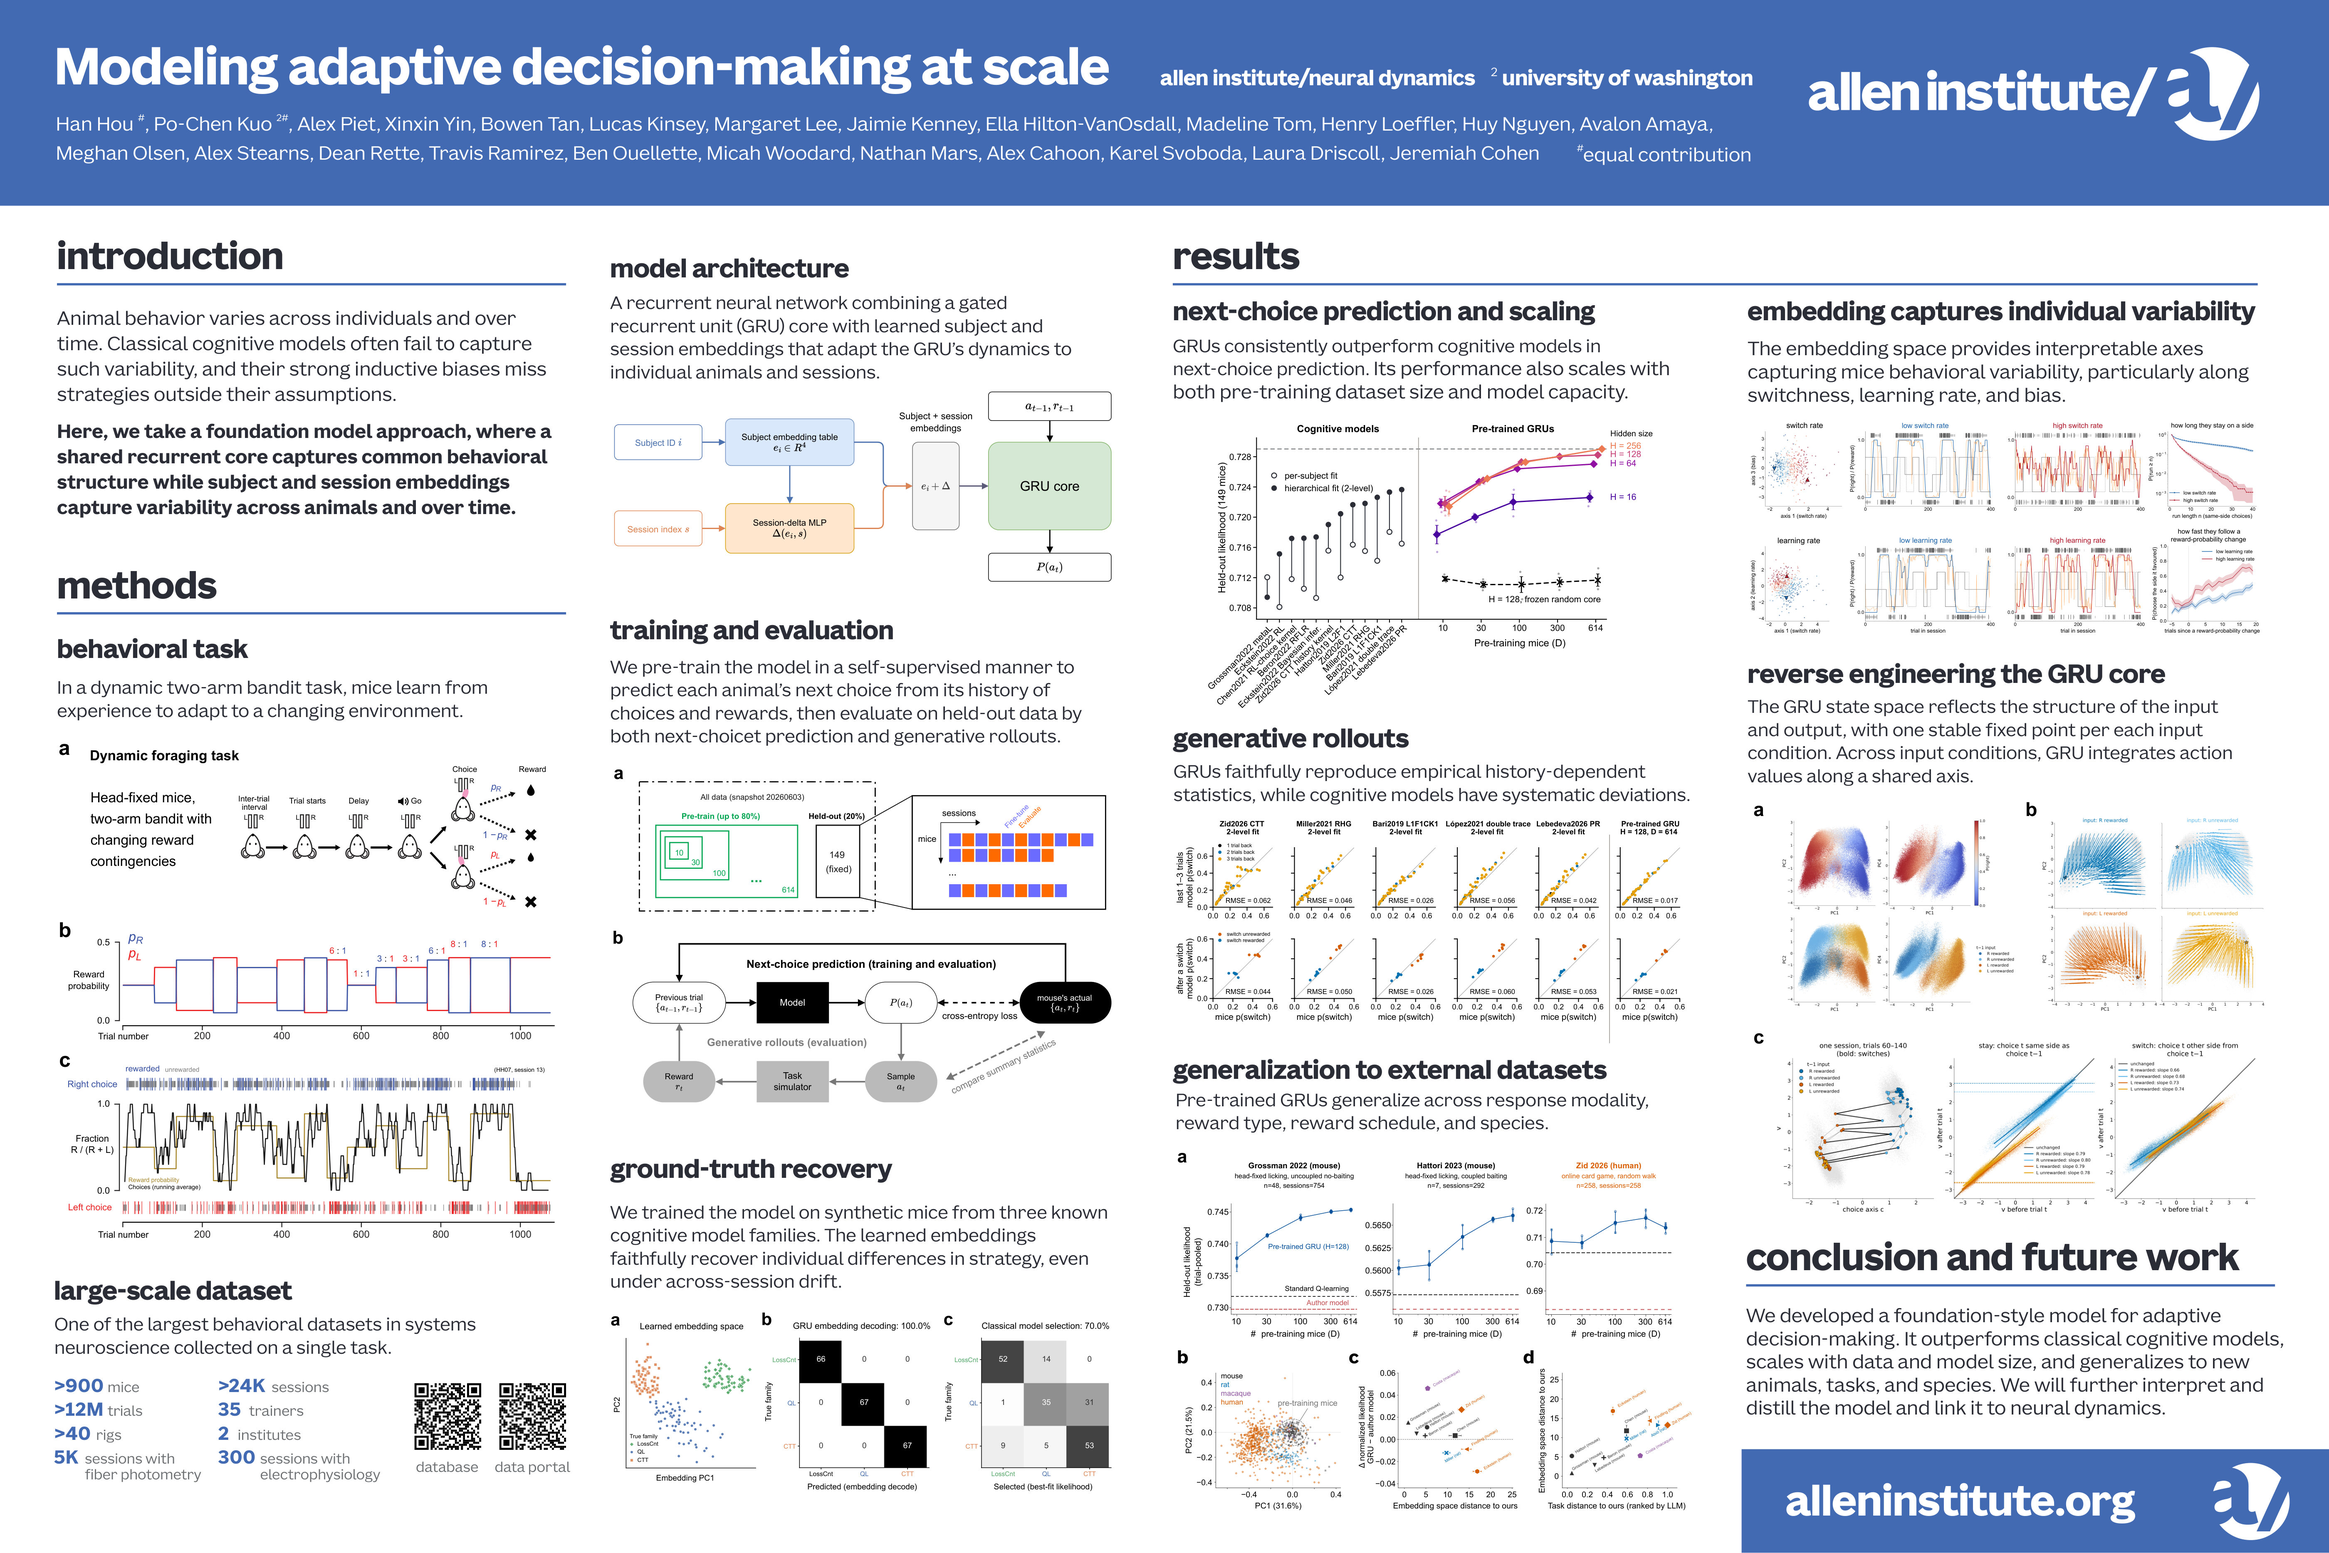
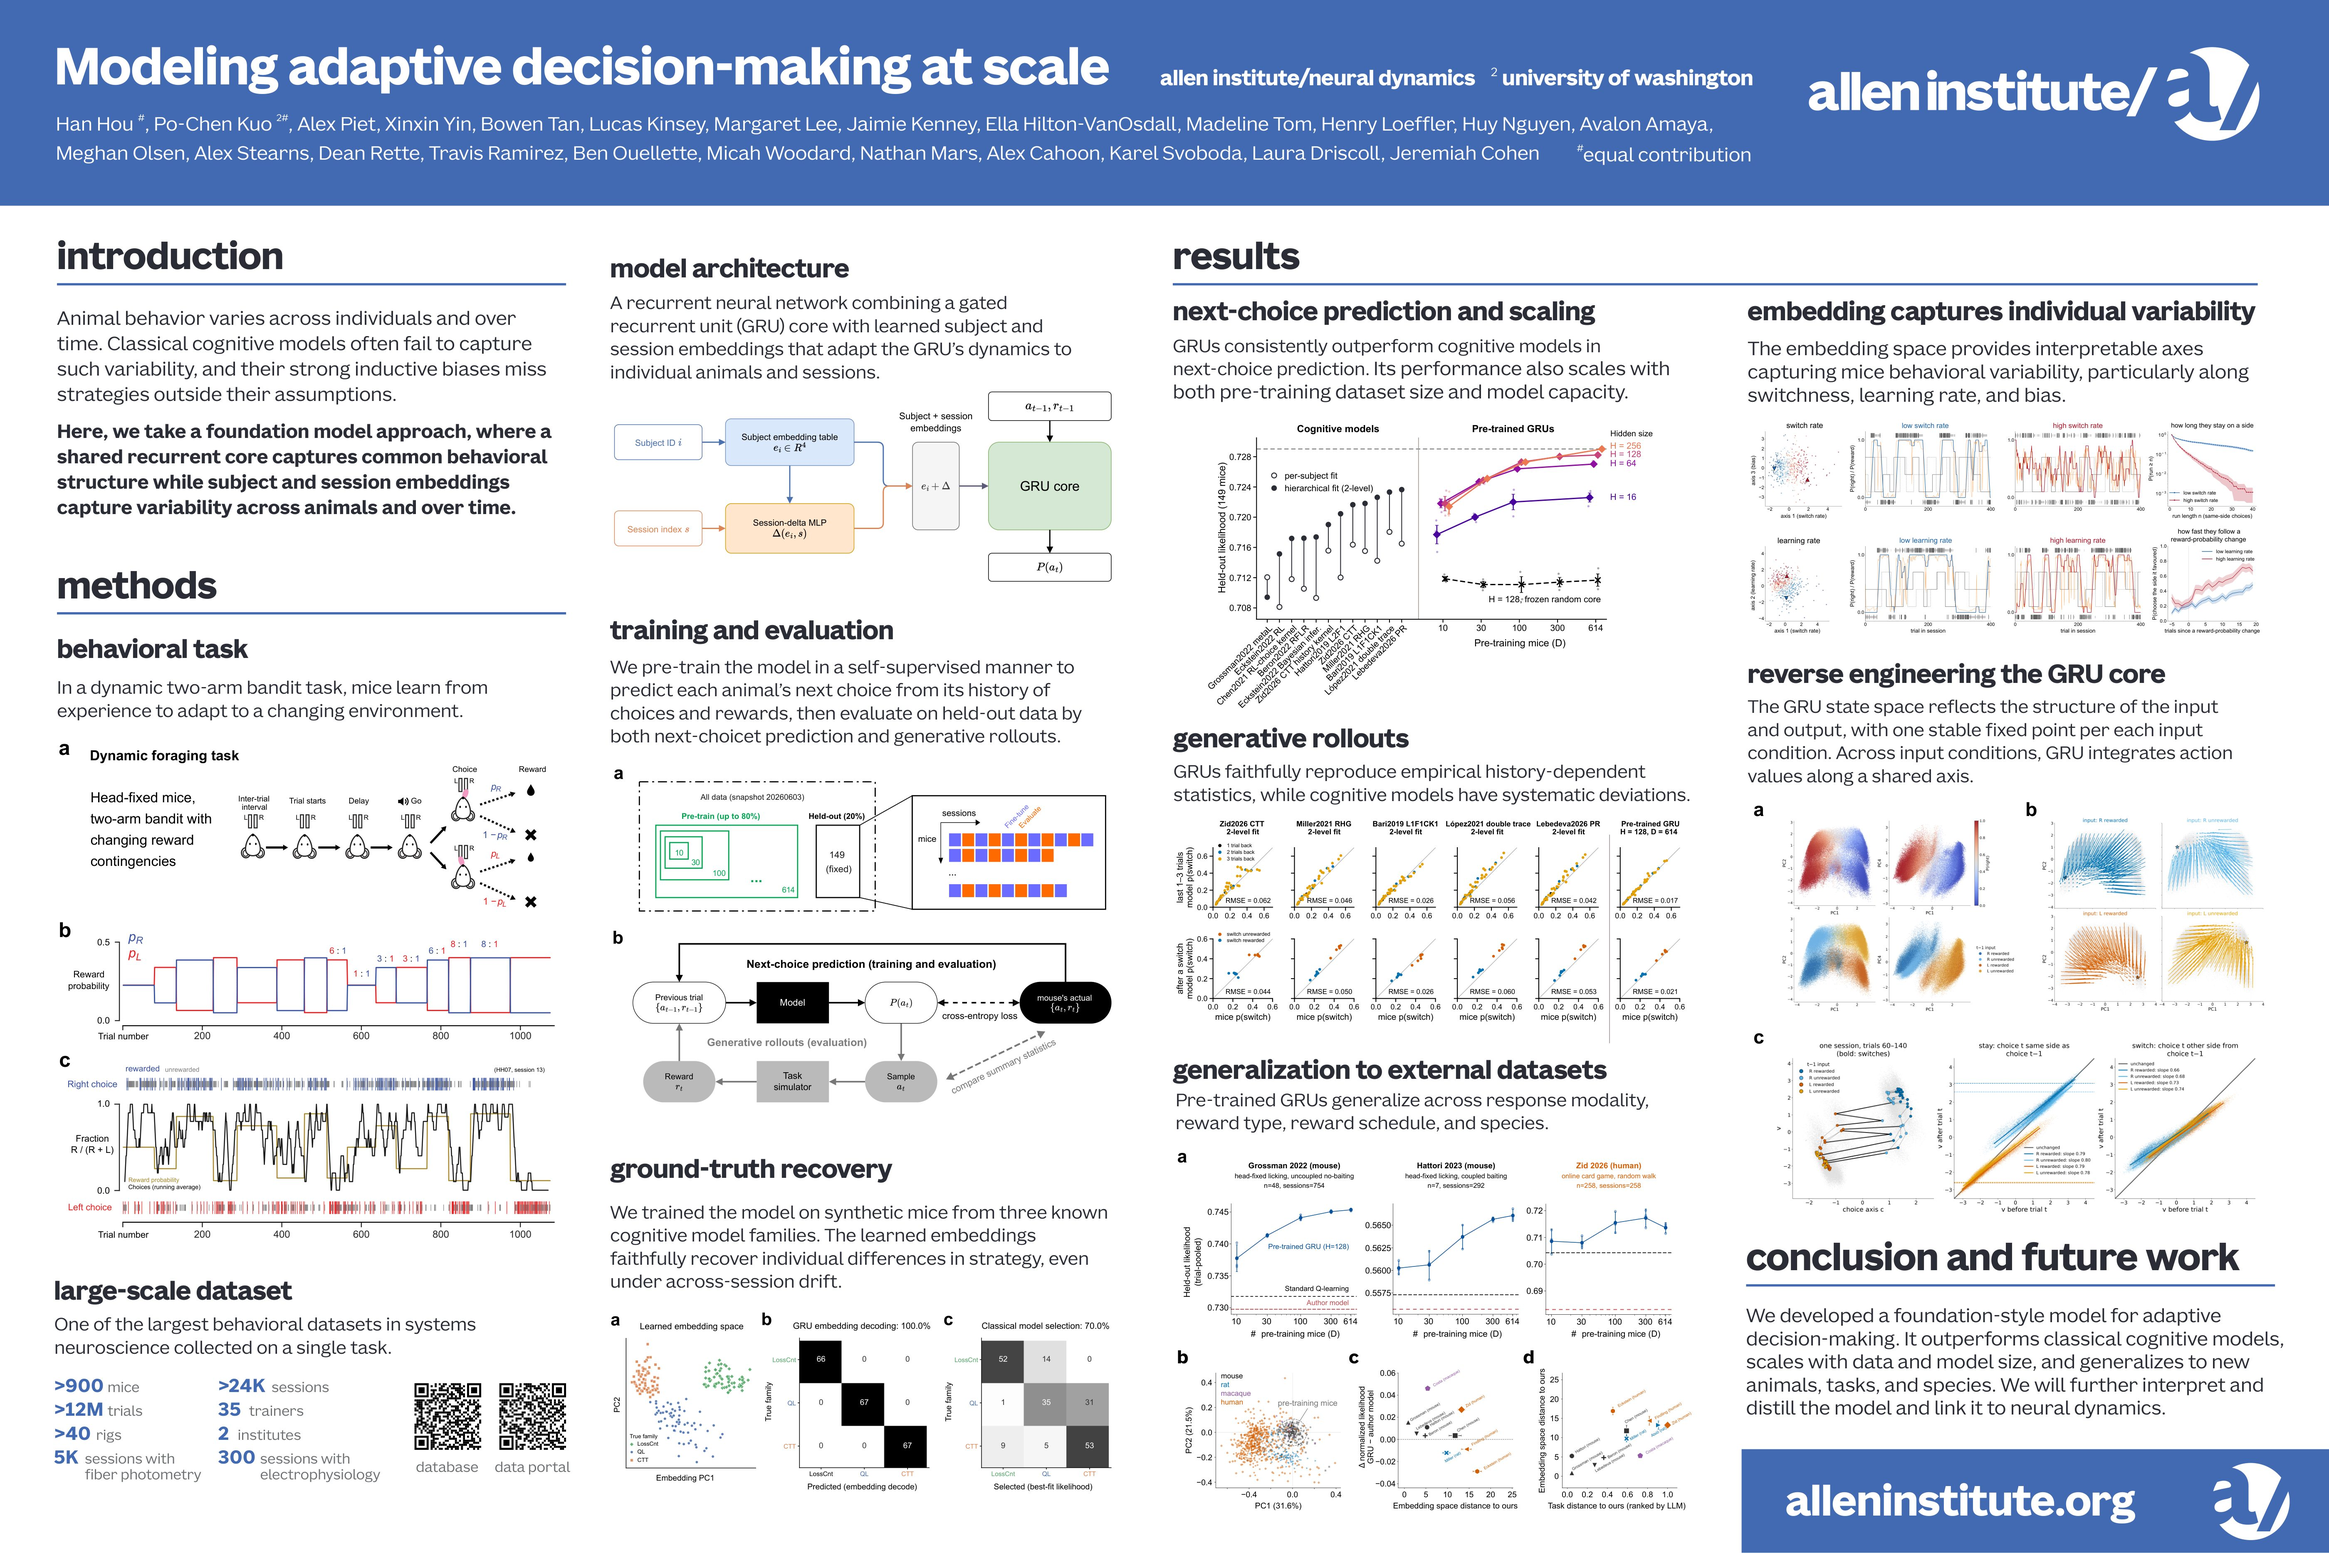
fix(poster): a baseline JPEG; Pages deploys timed out with the progressive one
Since #65, every Pages deploy of main timed out in deploy-pages while the version before it deployed in 9 s.
The only new file the site serves is the poster JPEG, which PyMuPDF wrote progressive. Same pixels, now
baseline (2.1 MB), rendered from the PDF by scripts/poster_image.py through Pillow.

Refs #66

diff --git a/scripts/poster_image.py b/scripts/poster_image.py
@@ -1,12 +1,12 @@
 """Render the poster PDF to the JPEG the home page and the poster view show (site/poster/).
 
-    pip install pymupdf
+    pip install pymupdf pillow
     python scripts/poster_image.py <poster.pdf> site/poster/sfn2026.jpg
 
 The PDF itself stays out of this repository and off the site (.gitignore).
 
 One page, at 100 dpi: sharp enough to read a panel zoomed to the screen, small enough (~2.4 MB) to load on a
-phone. The panel rectangles in site/home.js are in the PDF's points, so they do not depend on this resolution.
+phone. A baseline JPEG: Pages deploys of the progressive one PyMuPDF writes timed out (#66). The panel rectangles in site/home.js are in the PDF's points, so they do not depend on this resolution.
 """
 import sys
 
@@ -14,5 +14,5 @@ import pymupdf
 
 pdf, out = sys.argv[1:3]
 page = pymupdf.open(pdf)[0]
-page.get_pixmap(dpi=100).save(out, jpg_quality=82)
+page.get_pixmap(dpi=100).pil_save(out, format="JPEG", quality=82, optimize=True, progressive=False)
 print(f"{out}: {page.rect.width:.0f} x {page.rect.height:.0f} pt")
